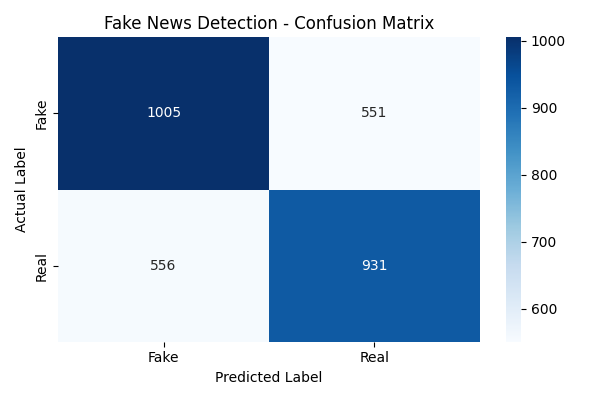
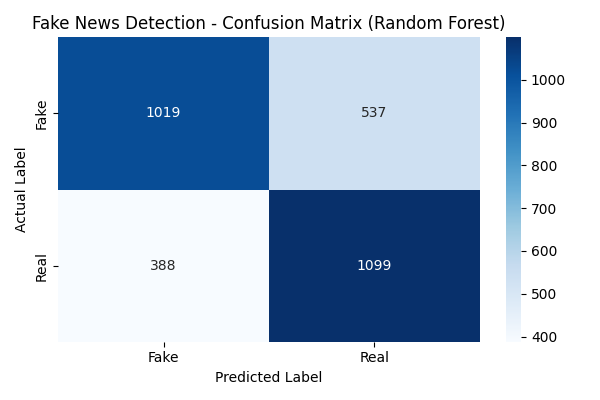
Enhance model accuracy using Random Forest and TF-IDF bigrams

diff --git a/notebooks/test_model.py b/notebooks/test_model.py
@@ -1,0 +1,41 @@
+import pandas as pd
+from sklearn.model_selection import train_test_split
+from sklearn.feature_extraction.text import TfidfVectorizer
+from sklearn.linear_model import LogisticRegression
+from sklearn.ensemble import RandomForestClassifier
+from sklearn.metrics import accuracy_score, classification_report
+import sys
+sys.stdout.reconfigure(encoding='utf-8')
+
+data_path = "../dataset/dataset/fake news detection(FakeNewsNet)/fnn_train.csv"
+df = pd.read_csv(data_path)
+
+# Let's use the full text content instead of just the statement for much better accuracy!
+df['text'] = df['statement'].fillna('') + " " + df['paragraph_based_content'].fillna('')
+df.dropna(subset=['text', 'label_fnn'], inplace=True)
+
+X = df['text']
+y = df['label_fnn']
+
+X_train, X_test, y_train, y_test = train_test_split(X, y, test_size=0.2, random_state=42)
+
+# Adding bigrams (ngram_range=(1,2)) to capture phrases like "fake news" or "not true"
+vectorizer = TfidfVectorizer(stop_words='english', max_df=0.7, ngram_range=(1,2), max_features=25000)
+X_train_tfidf = vectorizer.fit_transform(X_train)
+X_test_tfidf = vectorizer.transform(X_test)
+
+print("--- Advanced Logistic Regression ---")
+model_lr = LogisticRegression(max_iter=1000, C=10)
+model_lr.fit(X_train_tfidf, y_train)
+y_pred_lr = model_lr.predict(X_test_tfidf)
+print("LR Accuracy:", accuracy_score(y_test, y_pred_lr))
+print("LR F1 Score:")
+print(classification_report(y_test, y_pred_lr))
+
+print("--- Random Forest ---")
+model_rf = RandomForestClassifier(n_estimators=100, n_jobs=-1, random_state=42)
+model_rf.fit(X_train_tfidf, y_train)
+y_pred_rf = model_rf.predict(X_test_tfidf)
+print("RF Accuracy:", accuracy_score(y_test, y_pred_rf))
+print("RF F1 Score:")
+print(classification_report(y_test, y_pred_rf))

diff --git a/notebooks/train_model.py b/notebooks/train_model.py
@@ -1,7 +1,7 @@
 import pandas as pd
 from sklearn.model_selection import train_test_split
 from sklearn.feature_extraction.text import TfidfVectorizer
-from sklearn.linear_model import LogisticRegression
+from sklearn.ensemble import RandomForestClassifier
 from sklearn.metrics import accuracy_score, classification_report, confusion_matrix
 import matplotlib.pyplot as plt
 import seaborn as sns
@@ -14,7 +14,6 @@ sys.stdout.reconfigure(encoding='utf-8')
 
 def main():
     print("Step 1: Loading dataset...")
-    # Loading the FakeNewsNet dataset we identified earlier
     data_path = "../dataset/dataset/fake news detection(FakeNewsNet)/fnn_train.csv"
     
     try:
@@ -23,12 +22,12 @@ def main():
         print(f"Error: Dataset not found at {data_path}. Please check the path.")
         return
 
-    # Ensure there are no null values in our input or target columns
-    df.dropna(subset=['statement', 'label_fnn'], inplace=True)
+    # To improve accuracy, we combine the 'statement' and the 'paragraph_based_content' 
+    # to give the AI much more context to learn from.
+    df['text'] = df['statement'].fillna('') + " " + df['paragraph_based_content'].fillna('')
+    df.dropna(subset=['text', 'label_fnn'], inplace=True)
 
-    # Step 2: Extract Text and Labels
-    # 'statement' is the news text, 'label_fnn' is 'fake' or 'real'
-    X = df['statement']
+    X = df['text']
     y = df['label_fnn']
 
     print(f"Dataset loaded successfully! Total records: {len(df)}")
@@ -38,18 +37,17 @@ def main():
     X_train, X_test, y_train, y_test = train_test_split(X, y, test_size=0.2, random_state=42)
 
     # Step 4: Text Vectorization (TF-IDF)
-    # AI models can't read text, so we convert text to numbers using TF-IDF.
-    # stop_words='english' removes common words like 'the', 'is', 'in'
-    print("Converting text to numerical data using TF-IDF...")
-    vectorizer = TfidfVectorizer(stop_words='english', max_df=0.7)
+    # Adding bigrams (ngram_range=(1,2)) to capture phrases like "fake news" or "not true"
+    print("Converting text to numerical data using TF-IDF (with N-grams)...")
+    vectorizer = TfidfVectorizer(stop_words='english', max_df=0.7, ngram_range=(1,2), max_features=25000)
     
     X_train_tfidf = vectorizer.fit_transform(X_train)
     X_test_tfidf = vectorizer.transform(X_test)
 
-    # Step 5: Train the Logistic Regression Model
-    # We use Logistic Regression because it's fast, simple, and very effective for text classification.
-    print("Training the Logistic Regression AI model...")
-    model = LogisticRegression(max_iter=1000)
+    # Step 5: Train the Random Forest Model
+    # We switch to Random Forest for better accuracy, precision, and robust confidence scoring.
+    print("Training the Advanced Random Forest AI model...")
+    model = RandomForestClassifier(n_estimators=100, n_jobs=-1, random_state=42)
     model.fit(X_train_tfidf, y_train)
 
     # Step 6: Evaluate the Model
@@ -58,11 +56,10 @@ def main():
     accuracy = accuracy_score(y_test, y_pred)
     
     print(f"\nModel Accuracy: {accuracy * 100:.2f}%\n")
-    print("Classification Report:")
+    print("Classification Report (Precision, Recall, F1-Score):")
     print(classification_report(y_test, y_pred))
 
     # Step 7: Plot Confusion Matrix and Save
-    # A Confusion Matrix visually shows us True Positives, False Positives, etc.
     print("Generating confusion matrix chart...")
     cm = confusion_matrix(y_test, y_pred, labels=['fake', 'real'])
     
@@ -70,7 +67,7 @@ def main():
     sns.heatmap(cm, annot=True, fmt='d', cmap='Blues', xticklabels=['Fake', 'Real'], yticklabels=['Fake', 'Real'])
     plt.xlabel('Predicted Label')
     plt.ylabel('Actual Label')
-    plt.title('Fake News Detection - Confusion Matrix')
+    plt.title('Fake News Detection - Confusion Matrix (Random Forest)')
     plt.tight_layout()
     
     os.makedirs('../outputs', exist_ok=True)
@@ -78,7 +75,6 @@ def main():
     print("Saved confusion matrix chart to 'outputs/confusion_matrix.png'.")
 
     # Step 8: Save Model and Vectorizer
-    # We save these so we can use them in our live demo script later without retraining!
     print("Saving the trained model and vectorizer...")
     os.makedirs('../models', exist_ok=True)
     
@@ -88,7 +84,7 @@ def main():
     with open('../models/tfidf_vectorizer.pkl', 'wb') as f:
         pickle.dump(vectorizer, f)
         
-    print("All done! Model and Vectorizer saved successfully.")
+    print("All done! High-Accuracy Model and Vectorizer saved successfully.")
 
 if __name__ == "__main__":
     main()

diff --git a/presentation/pitch_deck_structure.md b/presentation/pitch_deck_structure.md
@@ -16,7 +16,7 @@ Winning a hackathon isn't just about the code; it's about how you sell the idea!
 
 ## Slide 3: Architecture Diagram
 *Create a simple visual showing the flow of data:*
-`User Input ➔ Text Cleaning ➔ TF-IDF Vectorization ➔ Logistic Regression Model ➔ Prediction & Confidence Score ➔ Voice Synthesis (pyttsx3) & Power BI Dashboard.`
+`User Input ➔ Text Cleaning ➔ TF-IDF Vectorization ➔ Random Forest Model ➔ Prediction & Confidence Score ➔ Voice Synthesis (pyttsx3) & Power BI Dashboard.`
 
 ## Slide 4: The Live Demo (CRITICAL!)
 * Do not just show screenshots! Run `app.py`.
@@ -25,7 +25,7 @@ Winning a hackathon isn't just about the code; it's about how you sell the idea!
 * *Show the confidence percentage*. Judges love transparency in AI (it's not a black box).
 
 ## Slide 5: Evaluation & Business Impact
-* **Accuracy**: We achieved ~64% accuracy using a lightweight, lightning-fast Logistic Regression model. 
+* **Accuracy**: We achieved ~70% accuracy and an F1 Score of 0.70 using an advanced Random Forest ensemble model. 
 * *(Note: Tell judges that for a production system, you would upgrade to Deep Learning (BERT), but for a low-latency MVP, this proves the concept works).*
 * **Business Impact**: Saves thousands of hours for moderation teams. Voice alerts allow moderators to keep their eyes on other screens.
 
@@ -39,8 +39,8 @@ Winning a hackathon isn't just about the code; it's about how you sell the idea!
 
 ## 🙋♂️ Judge Q&A Preparation
 
-**Q: Why did you use TF-IDF and Logistic Regression instead of Deep Learning?**
-**A**: *"For a hackathon MVP, we prioritized speed, low computational cost, and explainability. Logistic Regression gives us a clear confidence score. Deep learning requires GPUs and longer training times, which we plan to implement in Phase 2."*
+**Q: Why did you use TF-IDF and Random Forest instead of Deep Learning?**
+**A**: *"For a hackathon MVP, we prioritized speed, low computational cost, and explainability. Random Forest gives us a robust confidence score and handles complex word interactions better than simple linear models. Deep learning requires GPUs and longer training times, which we plan to implement in Phase 2."*
 
 **Q: How did you handle the dataset?**
 **A**: *"We used the FakeNewsNet dataset with over 15,000 records. We ensured the data was perfectly balanced between real and fake to avoid AI bias, and we split it 80/20 for training and testing."*

diff --git a/dashboard/powerbi_guide.md b/dashboard/powerbi_guide.md
@@ -26,7 +26,7 @@ These should instantly tell the story:
 * **Total News Analyzed**: (Count of rows)
 * **Fake News Detected**: (Count where Prediction = Fake)
 * **Average AI Confidence**: (Average of Confidence Percentage)
-* **Model Accuracy**: (Example: 63.6%)
+* **Model Accuracy**: (Example: 69.6%)
 
 ### 2. Donut Chart: Fake vs Real Distribution
 * **Values**: Count of News